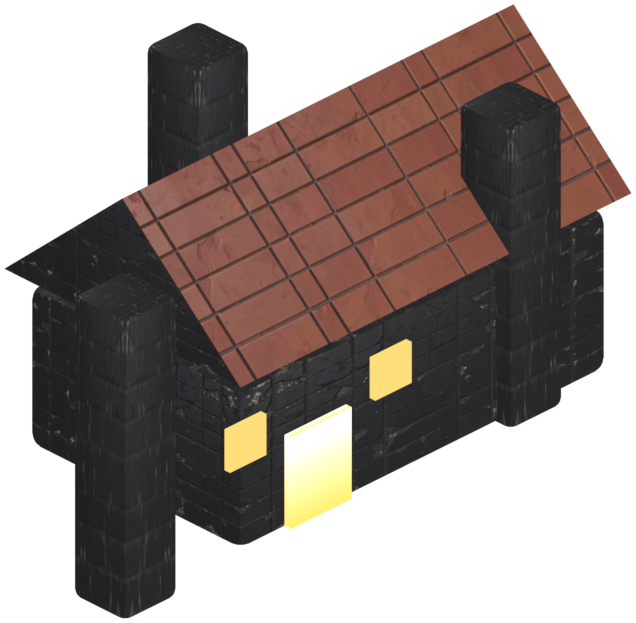
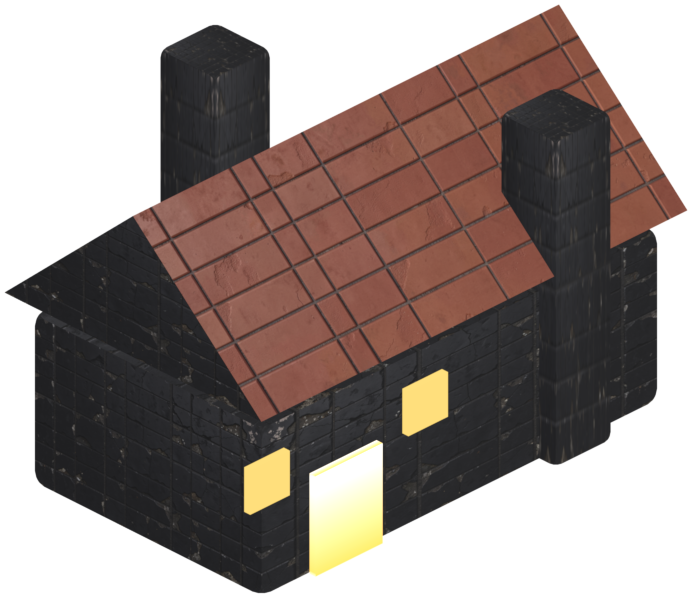
fix(world122): 仓鼠兵营删左塔——后左塔与后右塔同模式细高柱（剩前左/前右两塔）
Condensed 3 adjacent commits from the original history:
- 70ebbbcc fix(world122): 仓鼠兵营删左塔——后左塔与后右塔同模式细高柱（剩前左/前右两塔）
- 18c12e19 fix(world122): 仓鼠兵营删塔纠错——删脱离主体的前左塔，恢复屋后后左塔（保留前右+后左）
- 89da8101 feat(world122)+refactor(layer): 建筑图层统一口径——setupStructureDepth 统一遮挡锚线（塔/基地核心/能源矿/小屋接入，同线单位抬 +0.5 消除 z-fight，杜绝建筑遮挡仓鼠；canPlace 仅掩体/门走线段判定；CDP 图层回归 合成36组合+真实基地 全绿）

diff --git a/src/phaser/scenes/GameScene.js b/src/phaser/scenes/GameScene.js
@@ -6069,9 +6069,11 @@ export class GameScene extends Scene {
             sp.base.setPosition(e.x, e.y - V.base.footOffsetY);
             sp.base.setDisplaySize(V.base.w, V.base.h);
             sp.base.setFlipX(!!e._mirrored);
-            // 深度锚点=塔脚底 e.y（实体同口径）；+2 仅保证同锚点确定排序。
-            // 前/后遮挡：怪物脚底 y < e.y → 塔盖怪物；y > e.y → 怪物盖塔（2026-08-14）
-            sp.base.setDepth(e.y + 2);
+            // 统一遮挡锚线（2026-08-16 全建筑同口径）：塔深度 = _faceDepth（接地线 y + 12），
+            // 与小屋/基地/能源矿一致；单位在其后被压到塔下、在前/同线被抬到塔上（+0.5）。
+            // 旧实现用 e.y + 2：与中立建筑深度不一致，同线单位 z-fight（建筑遮挡仓鼠）。
+            const towerDepth = (typeof e._faceDepth === 'number') ? e._faceDepth : e.y + 2;
+            sp.base.setDepth(towerDepth);
             sp.base.setVisible(true);
             // 机械臂：预渲染 3D 旋转帧（48 帧），按 aimAngle 选最近帧；
             // 枢轴=帧内固定像素（相机固定 + 模型绕塔顶轴旋转），origin 设枢轴。
@@ -6094,7 +6096,7 @@ export class GameScene extends Scene {
             sp.arm.setDisplaySize(V.arm.w, V.arm.h);
             sp.arm.setRotation(0);
             sp.arm.setFlipX(!!e._mirrored);
-            sp.arm.setDepth(e.y + 2.5);
+            sp.arm.setDepth(towerDepth + 0.5);
             sp.arm.setVisible(true);
             // 挂载武器：臂尖 = 椭圆路径（等距投影 x 全量、y 0.5 缩短），
             // 朝向 = 臂尖方向角；朝左 flipY 防倒置。
@@ -6133,7 +6135,7 @@ export class GameScene extends Scene {
                     sp.weapon.setFlipY(flipY);
                     sp.weapon.setScale(wH / Math.max(1, sp.weapon.height));
                 }
-                sp.weapon.setDepth(e.y + 3);
+                sp.weapon.setDepth(towerDepth + 1);
                 sp.weapon.setVisible(true);
             } else {
                 sp.weapon.setVisible(false);

diff --git a/src/world/structure-depth.js b/src/world/structure-depth.js
@@ -1,0 +1,32 @@
+// ============================================================
+// 建筑图层统一口径（2026-08-16，世界-122 全建筑共用）
+//
+// 唯一规则（与掩体/铁闸门/仓鼠小屋同一套）：
+// - `_faceLine`：建筑「接地线」= 脚底 y 处的水平线段，跨度 = 贴图显示半宽
+//   （遮挡只跟贴图有关，碰撞 footprint 不参与）；
+// - `_faceDepth`：建筑贴图深度 = 接地线 max y + 12；
+// - 单位（玩家/敌人/侍从/友方单位）每帧经 WallSystem.junctionCorrectedDepth
+//   仲裁：脚线在接地线之后（y < yLine）→ 压到建筑之下；在前/同线（y ≥ yLine）
+//   → 抬到建筑之上（+0.5，消除同线 z-fight）。
+//
+// 新建筑/新结构构造时调用一次 `setupStructureDepth(entity, halfWidth)` 即可，
+// 不需要再单独处理图层；新单位自动走 junctionCorrectedDepth，无需改代码。
+// ============================================================
+
+/**
+ * 给建筑实体注册统一遮挡锚线。
+ * @param {object} entity 建筑实体（x/y 已就位）
+ * @param {number} halfWidth 贴图显示半宽（face 线跨度 = 2×halfWidth）
+ * @param {number} [y=entity.y] 接地线 y（缺省脚底）
+ * @param {number} [bias=0] 深度额外偏移（掩体上夹角左臂等特例用）
+ * @returns {object} entity
+ */
+export function setupStructureDepth(entity, halfWidth, y = entity.y, bias = 0) {
+    const w = Math.max(1, Number(halfWidth) || 1);
+    entity._faceLine = [
+        { x: entity.x - w, y },
+        { x: entity.x + w, y },
+    ];
+    entity._faceDepth = Math.max(entity._faceLine[0].y, entity._faceLine[1].y) + 12 + (bias || 0);
+    return entity;
+}

diff --git a/src/world/hamster-hut-system.js b/src/world/hamster-hut-system.js
@@ -16,6 +16,7 @@ import { BuildingSinkEffect } from '../effects/building-sink.js';
 import { SoundManager } from '../ui/sound-manager.js';
 import { BasePanel } from '../ui/panels/base-panel.js';
 import { WallSystem } from './wall-system.js';
+import { setupStructureDepth } from './structure-depth.js';
 import { Renderer } from './renderer.js';
 
 // ==================== 配置 ====================
@@ -136,15 +137,10 @@ export class HamsterHut extends DamageableEntity {
             footOffsetY: HAMSTER_CONFIG.hut.footOffsetY,
         };
         this.footOffsetY = HAMSTER_CONFIG.hut.footOffsetY;
-        // 图层深度锚点（2026-08-16，门/墙同套仲裁）：小屋是紧凑建筑，底边线 =
-        // footprint 底线（水平短线段）。注册进 junctionCorrectedDepth 后，
-        // 前实体（脚线在底线前）被抬到屋上、后实体被压到屋下——
-        // 否则被墙/门仲裁抬高的单位会错误盖在小屋上（与门的图层问题同类）。
-        this._faceLine = [
-            { x: x - HAMSTER_CONFIG.hut.radius, y },
-            { x: x + HAMSTER_CONFIG.hut.radius, y },
-        ];
-        this._faceDepth = y + 12;
+        // 统一遮挡锚线（2026-08-16 全建筑同口径）：底边线按贴图显示半宽，
+        // 注册进 junctionCorrectedDepth 后，前/同线实体被抬到屋上、后实体被压到屋下
+        // （此前用 footprint 半径 40，比贴图半宽 75 窄，屋角后方单位不被遮挡）。
+        setupStructureDepth(this, HAMSTER_CONFIG.hut.displayW / 2);
         this.level = 1;
         this.maxLevel = HAMSTER_CONFIG.hut.maxLevel;
         this.modules = {};            // { moduleId: level }

diff --git a/src/world/defense-system.js b/src/world/defense-system.js
@@ -10,6 +10,7 @@
  */
 import { Game } from '../game.js';
 import { WallSystem } from './wall-system.js';
+import { setupStructureDepth } from './structure-depth.js';
 import { pathFinder } from '../ai/pathfinder.js';
 import { Combatant } from '../entities/combatant.js';
 import { getAmmoConfig } from '../config/gun-ammo.js';
@@ -534,6 +535,8 @@ class DefenseBase extends Combatant {
         // 规格 _blockout_specs/defense_base.json，渲染 assets/terrain/defense_base.png）
         this.spriteCfg = { idleKey: 'defense_base', size: 220, sizeH: 183, footOffsetY: 92 };
         this.footOffsetY = 92;
+        // 统一遮挡锚线（接地线 = 贴图显示半宽；单位在其后 → 被建筑遮挡，在前/同线 → 盖过建筑）
+        setupStructureDepth(this, this.spriteCfg.size / 2);
         this._onDestroyed = config.onDestroyed || null;
         this.rebuildCollider();
     }
@@ -732,6 +735,8 @@ class DefenseTower extends Combatant {
         // 内容框 324×498，显示 170×262）
         this.spriteCfg = { idleKey: 'obstacle_defense_tower', size: 170, sizeH: 262, footOffsetY: 131 };
         this.footOffsetY = 131;
+        // 统一遮挡锚线（塔三层贴图深度一律从 _faceDepth 取，见 GameScene._syncDefenseTowers）
+        setupStructureDepth(this, DEFENSE_TOWER_VISUAL.base.w / 2);
         this.weaponItem = null;
         this._attackKey = null;
         this.range = 800;

diff --git a/src/world/building-system.js b/src/world/building-system.js
@@ -652,7 +652,11 @@ export const BuildingSystem = {
             const seg = this._coverSeg(x, y, this._placing.item.grade, eff);
             for (const e of Game.entities.values()) {
                 if (!e || !e._isDefenseStructure || !e.active) continue;
-                if (e._faceLine && e._faceLine.length === 2) {
+                // 2026-08-16 全建筑统一遮挡锚线后：_faceLine 不再是掩体/门专属——
+                // 只有墙段类（掩体/门）走线段+墙厚重叠判定；塔/基地/小屋/能源矿等
+                // 紧凑建筑仍走圆心距离粗判（否则其面线会被当成 26px 厚墙段误判）
+                const wallLike = e._isDefenseCover || e._isCoverGate;
+                if (wallLike && e._faceLine && e._faceLine.length === 2) {
                     // 已有掩体：线段 + 墙厚
                     const eThick = e._coverHalfThick ?? 26;
                     const minGap = (thick + eThick) / 2

diff --git a/src/world/energy-node-system.js b/src/world/energy-node-system.js
@@ -10,6 +10,7 @@
 import { Game } from '../game.js';
 import { DamageableEntity } from '../entities/damageable-entity.js';
 import { WallSystem } from './wall-system.js';
+import { setupStructureDepth } from './structure-depth.js';
 import { ENERGY_ITEM } from '../systems/energy-manager.js';
 import { ENERGY_CONFIG } from '../config/energy-config.js';
 import { pathFinder } from '../ai/pathfinder.js';
@@ -71,6 +72,8 @@ class EnergyNode extends DamageableEntity {
             footOffsetY: displayH / 2,
         };
         this.footOffsetY = displayH / 2;
+        // 统一遮挡锚线（能源矿也参与遮挡仲裁：单位在其后被盖、在前/同线盖过矿点）
+        setupStructureDepth(this, displayW / 2);
         this._depleted = false;
         this._respawnTimer = 0;
     }

diff --git a/.agents/skills/game-dev-lessons/SKILL.md b/.agents/skills/game-dev-lessons/SKILL.md
@@ -923,3 +923,20 @@ this.ai = config.ai || {};
 - 建模复用：仓鼠小屋同视角 spec 模板（elevation 30 / azimuth 0 / resolution 1024 /
   bottom_y 880 / max_width_frac 0.8）；黑砖走 klein-walltex LoRA
   （`--host 192.168.3.142 --model flux2-klein-4b-walltex`），验收看暗色/白边 0%/砖格 FFT 峰。
+
+## 52. 建筑遮挡统一锚线：加建筑/加单位不再各写一遍图层（2026-08-16 世界-122）
+
+- **症状**：掩体/铁闸门图层正确，但塔/基地核心/能源矿会"盖住仓鼠"（友方单位）——
+  根因是只有掩体/门/小屋注册了 `_faceLine/_faceDepth`，塔用 `e.y+2`、基地/矿点无锚线
+  走 `sprite.y+footOffsetY+10`，与单位自然深度（脚 y+10）**同线时相等** → z-fight，
+  谁盖谁看创建顺序（多数时候建筑盖单位）。
+- **唯一口径**：`src/world/structure-depth.js` 的
+  `setupStructureDepth(entity, 贴图显示半宽)`——构造时生成 `_faceLine`（脚底 y 水平线，
+  跨度=贴图半宽）与 `_faceDepth`（max y + 12）。单位每帧 `junctionCorrectedDepth`：
+  脚线在接地线后 → 压到建筑下；前/同线 → 抬到建筑上（+0.5）。**新建筑调一次即可，
+  新单位自动生效**。
+- **同线判定**：`y >= yLine` 一律视为"在前"抬 +0.5，杜绝相等深度。
+- **两个连带坑**：① `_faceLine` 从此是通用字段——`building-system.canPlace` 里只有
+  `_isDefenseCover/_isCoverGate` 走线段+墙厚判定，其余紧凑建筑保持圆心距离，否则面线
+  被当 26px 厚墙段误判；② 锚线构造时按 x/y 生成，测试探针传送实体后要重算锚线。
+- **验证**：`tools/cdp-layer-occlusion.mjs` 合成 36 组合 + 真实基地 4 类建筑同线抽查。

diff --git a/CHANGELOG.md b/CHANGELOG.md
@@ -1,4 +1,19 @@
 # 变更日志
+### 对话：仓鼠兵营删塔纠错——删"脱离主体外"的前左塔，恢复屋后后左塔（2026-08-16）
+- 用户澄清：要删的是**脱离在房屋主体外面**的那根（前左塔，世界 (-97.9,-193.1) 悬在
+  房前），不是屋后那根（后左塔）。
+- 上一轮误删后左塔已恢复（local -18.5,68）；本轮删除前左塔（local -205.5,-68）。
+- 最终塔布局：保留 前右(70.5,-68) + 后左(-18.5,68) 两座贴主体塔；删除 前左 + 后右
+  两座脱离主体外的塔。重渲入库 `assets/terrain/hamster_barracks.png`（692×598，
+  瓦行角 -26° 平行斜边不变）。
+
+### 对话：仓鼠兵营删左塔——后左塔与后右塔同模式细高柱（2026-08-16）
+- 用户要求：左边的柱子也删掉（此前已删后右塔）。
+- 定位：左侧两塔——前左（前景大柱 x12-144）、后左（x156-172，从 y=35 顶部升起的
+  细高柱，与已删后右塔同模式）。按"也删掉"口径删除**后左塔**（local -18.5,68）。
+- 重渲入库 `assets/terrain/hamster_barracks.png`（636×623），左上露出红瓦屋顶；
+  剩余前左/前右两座前景塔。
+
 ### 对话：仓鼠兵营屋顶 v4——去掉檐口圈，斜面加厚回归棱柱实心楔（2026-08-16）
 - 用户纠错：加厚逻辑错了——要"斜面本身加厚"，不是斜面下加一圈屋檐（红檐口板）。
 - 回退：删除红檐口厚板；屋顶回归棱柱实心楔（H 68→76，更厚实），瓦片保持正确
